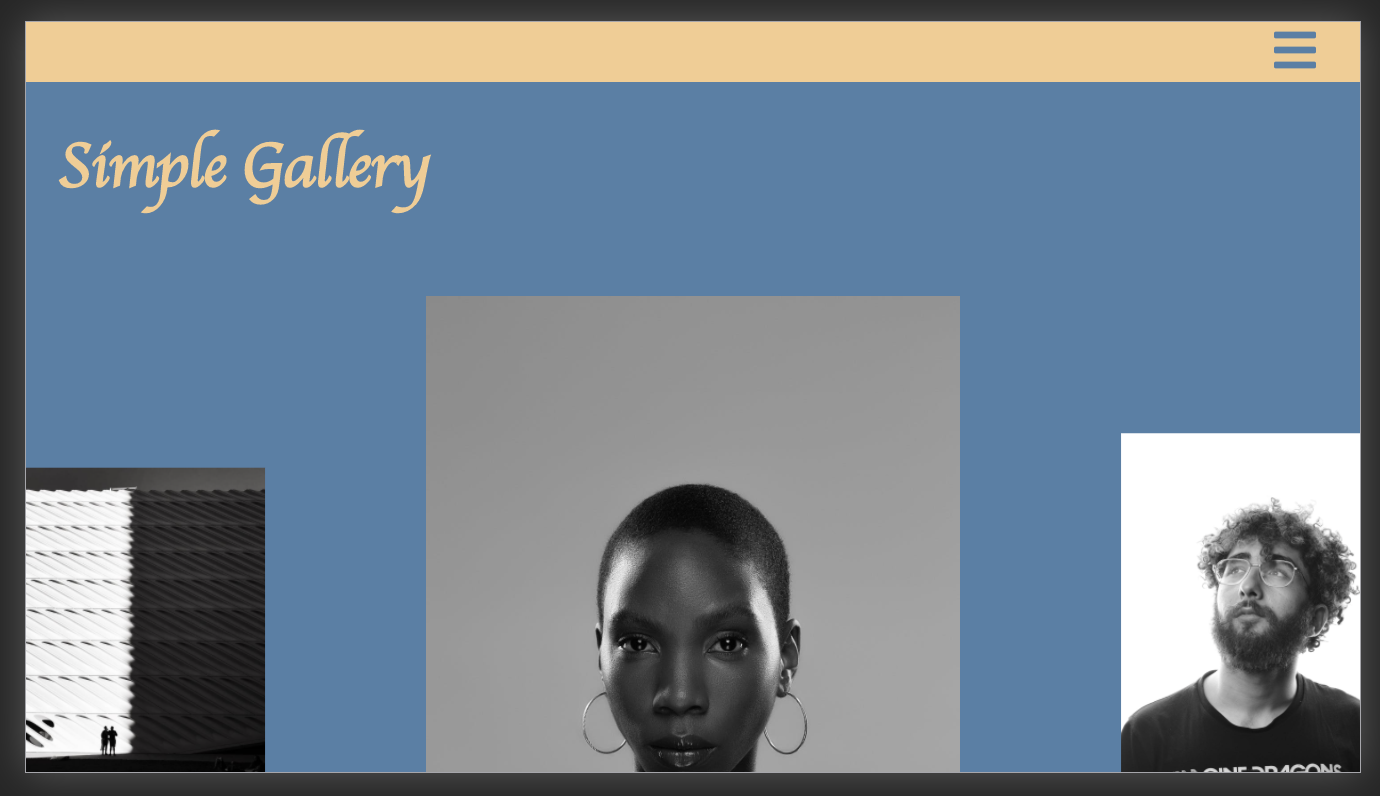
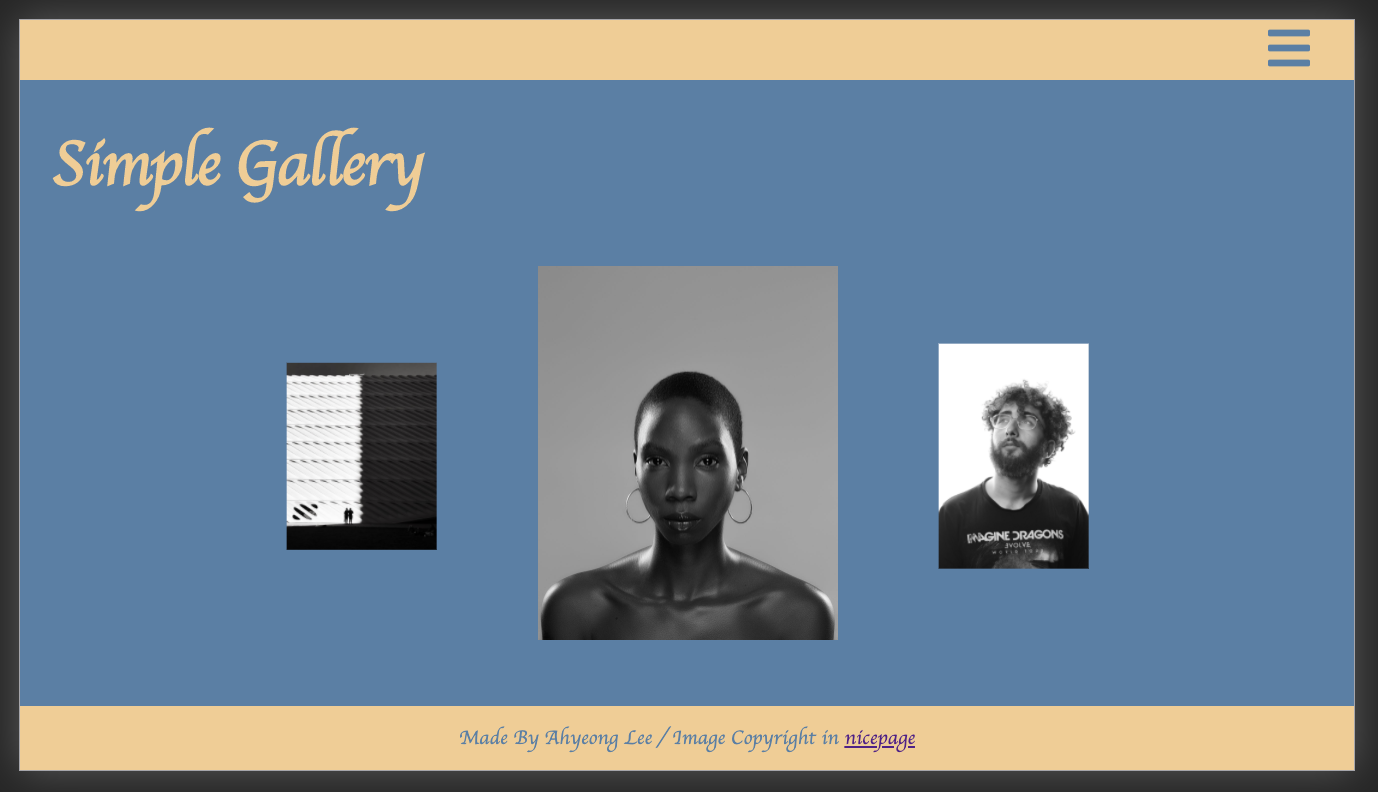
css 수정

diff --git a/style.css b/style.css
@@ -12,19 +12,15 @@
 
   /* img width */
   --size-img: 25vmax;
-  --size-img-height-middle: 30vmin;
-  --size-img-height-small: 23vmin;
-  --size-img-width-middle: 40vw;
-  --size-img-width-small: 50vw;
+  --size-img-middle: 30vh;
+  --size-img-small: 40vh;
 
   /* button height */
   --size-btnContainer: 50px;
-  --size-btnContainer-height-small: 30px;
+  --size-btnContainer-small: 30px;
 
   /* menu item width */
-  --size-menuItem: 10vw;
-  --size-menutItem-middle: 20vw;
-  --size-menueItem-small: 30vw;
+  --size-menuItem: 150px;
 }
 
 html,
@@ -127,26 +123,26 @@ button:hover {
 
 @media screen and (max-height: 800px) {
   img {
-    width: var(--size-img-height-middle);
+    width: var(--size-img-middle);
   }
   .main__imgContainer {
-    width: var(--size-img-height-middle);
+    width: var(--size-img-middle);
   }
 }
 
 @media screen and (max-height: 450px) {
   img {
-    width: var(--size-img-height-small);
+    width: var(--size-img-small);
   }
   .main__imgContainer {
-    width: var(--size-img-height-small);
+    width: var(--size-img-small);
   }
   .menu__btnContainer {
-    height: var(--size-btnContainer-height-small);
+    height: var(--size-btnContainert-small);
   }
 
   .menu__items {
-    top: var(--size-btnContainer-height-small);
+    top: var(--size-btnContainer-small);
   }
 
   .header__title {
@@ -154,31 +150,9 @@ button:hover {
   }
 
   .container {
-    height: calc(100% - var(--size-btnContainer-height-small));
+    height: calc(100% - var(--size-btnContainer-small));
   }
   .footer {
     font-size: var(--font-size-footer-small);
-  }
-}
-@media screen and (max-width: 1200px) {
-  img {
-    width: var(--size-img-width-middle);
-  }
-  .main__imgContainer {
-    width: var(--size-img-width-middle);
-  }
-  .menu__item {
-    width: var(--size-menutItem-middle);
-  }
-}
-@media screen and (max-width: 500px) {
-  img {
-    width: var(--size-img-width-small);
-  }
-  .main__imgContainer {
-    width: var(--size-img-width-small);
-  }
-  .menu__item {
-    width: var(--size-menueItem-small);
   }
 }

diff --git a/README.md b/README.md
@@ -46,11 +46,7 @@ Simple Responsive Website
 - 모바일 가로 화면</br></br>
   <img src="./screen_shot/mobile-horizontal.png" width="300">
 
-  모바일은 화면이 작기 때문에 내용이 화면을 넘어가게 만들었고</br>
-  짤리는 부분은 수직으로 스크롤이 가능하다.</br>
-
-  <img src="./screen_shot/mobile-scroll.png" width="300"></br>
-
 ## Acknowledgements
 
 - Image Copyright : [nicepage](https://nicepage.com/)
+- Button : [Font Awesome](https://fontawesome.com/)
